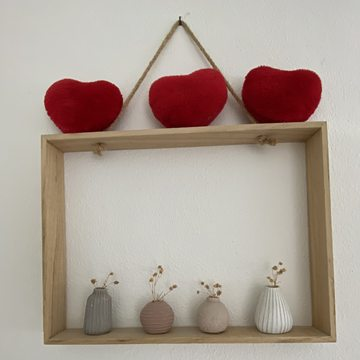
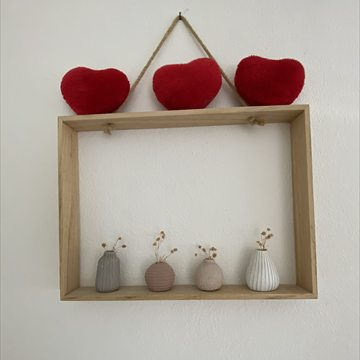
Photos: seated yoga in the middle and cropped tighter, full hearts frame
- Yoga trio order Balance · Ruhe · Kraft (EN Balance · Calm · Strength)
- Seated photo cropped to show less mat in front
- Accent photos are soft rounded squares instead of circles so the
  hearts frame isn't cut at the corners; hearts crop shows the whole frame
Asset version 20261004-3.

diff --git a/en/index.html b/en/index.html
@@ -6,8 +6,8 @@
 <title>LagOHM – Yoga &amp; Massage in Munich-Harlaching</title>
 <meta name="description" content="Yoga and massage in Munich-Harlaching. Yin Yoga, Yoga Therapy, Zen Shiatsu and Thai Yoga Massage with Helena – mindful, calm, all for you.">
 <link rel="icon" type="image/png" href="../images/logo.png">
-<link rel="stylesheet" href="../css/style.css?v=20261004-2">
-<link rel="stylesheet" href="../css/booking.css?v=20261004-2">
+<link rel="stylesheet" href="../css/style.css?v=20261004-3">
+<link rel="stylesheet" href="../css/booking.css?v=20261004-3">
 </head>
 <body>
 
@@ -157,8 +157,8 @@
 
         <div class="photo-trio">
           <figure><img src="../images/yoga-tree.jpg" alt="Helena in tree pose with hands above her head" loading="lazy"><figcaption>Balance</figcaption></figure>
-          <figure><img src="../images/yoga-triangle.jpg" alt="Helena in triangle pose" loading="lazy"><figcaption>Strength</figcaption></figure>
           <figure><img src="../images/yoga-seated.jpg" alt="Helena sitting cross-legged with hands at her heart" loading="lazy"><figcaption>Calm</figcaption></figure>
+          <figure><img src="../images/yoga-triangle.jpg" alt="Helena in triangle pose" loading="lazy"><figcaption>Strength</figcaption></figure>
         </div>
 
         <div class="technique-list">
@@ -436,7 +436,7 @@
   </div>
 </footer>
 
-<script src="../js/script.js?v=20261004-2"></script>
-<script src="../js/booking.js?v=20261004-2"></script>
+<script src="../js/script.js?v=20261004-3"></script>
+<script src="../js/booking.js?v=20261004-3"></script>
 </body>
 </html>

diff --git a/index.html b/index.html
@@ -6,8 +6,8 @@
 <title>LagOHM – Yoga &amp; Massage in München-Harlaching</title>
 <meta name="description" content="Yoga und Massage in München-Harlaching. Yin Yoga, Yoga-Therapie, Zen Shiatsu und Thai Yoga-Massage bei Helena – achtsam, ruhig, ganz für dich.">
 <link rel="icon" type="image/png" href="images/logo.png">
-<link rel="stylesheet" href="css/style.css?v=20261004-2">
-<link rel="stylesheet" href="css/booking.css?v=20261004-2">
+<link rel="stylesheet" href="css/style.css?v=20261004-3">
+<link rel="stylesheet" href="css/booking.css?v=20261004-3">
 </head>
 <body>
 
@@ -156,8 +156,8 @@
 
         <div class="photo-trio">
           <figure><img src="images/yoga-tree.jpg" alt="Helena im Baum mit Händen über dem Kopf" loading="lazy"><figcaption>Balance</figcaption></figure>
-          <figure><img src="images/yoga-triangle.jpg" alt="Helena im Dreieck" loading="lazy"><figcaption>Kraft</figcaption></figure>
           <figure><img src="images/yoga-seated.jpg" alt="Helena im Schneidersitz mit Händen vor der Brust" loading="lazy"><figcaption>Ruhe</figcaption></figure>
+          <figure><img src="images/yoga-triangle.jpg" alt="Helena im Dreieck" loading="lazy"><figcaption>Kraft</figcaption></figure>
         </div>
 
         <div class="technique-list">
@@ -435,7 +435,7 @@
   </div>
 </footer>
 
-<script src="js/script.js?v=20261004-2"></script>
-<script src="js/booking.js?v=20261004-2"></script>
+<script src="js/script.js?v=20261004-3"></script>
+<script src="js/booking.js?v=20261004-3"></script>
 </body>
 </html>

diff --git a/css/style.css b/css/style.css
@@ -233,9 +233,9 @@ a{ color: inherit; text-decoration: none; }
 .photo-trio img{ width:100%; aspect-ratio: 3/4; object-fit: cover; border-radius: 16px; display:block; }
 .photo-trio figcaption{ margin-top: 8px; text-align:center; font-family: var(--serif); font-style: italic; font-size: .95rem; color: var(--ink-soft); }
 
-/* Small round accent photos (Buddha, hearts) */
+/* Small accent photos (Buddha, hearts), soft rounded squares so nothing gets cut */
 .principles-head{ display:flex; align-items:center; justify-content:space-between; gap: 24px; }
-.accent-round{ width:110px; height:110px; border-radius:50%; object-fit:cover; flex:none; box-shadow: 0 12px 30px -14px rgba(43,27,22,.35); }
+.accent-round{ width:110px; height:110px; border-radius:20px; object-fit:cover; flex:none; box-shadow: 0 12px 30px -14px rgba(43,27,22,.35); }
 .accent-center{ display:block; margin: 0 auto 18px; }
 @media (max-width: 600px){ .accent-round{ width:84px; height:84px; } .photo-trio{ gap: 8px; } }
 

diff --git a/datenschutz.html b/datenschutz.html
@@ -5,7 +5,7 @@
 <meta name="viewport" content="width=device-width, initial-scale=1.0">
 <title>Datenschutz – LagOHM</title>
 <link rel="icon" type="image/png" href="images/logo.png">
-<link rel="stylesheet" href="css/style.css?v=20261004-2">
+<link rel="stylesheet" href="css/style.css?v=20261004-3">
 </head>
 <body>
 

diff --git a/impressum.html b/impressum.html
@@ -5,7 +5,7 @@
 <meta name="viewport" content="width=device-width, initial-scale=1.0">
 <title>Impressum – LagOHM</title>
 <link rel="icon" type="image/png" href="images/logo.png">
-<link rel="stylesheet" href="css/style.css?v=20261004-2">
+<link rel="stylesheet" href="css/style.css?v=20261004-3">
 </head>
 <body>
 

diff --git a/admin/vouchers.php b/admin/vouchers.php
@@ -105,8 +105,8 @@ header('Content-Type: text/html; charset=utf-8');
 <meta charset="UTF-8">
 <meta name="viewport" content="width=device-width, initial-scale=1.0">
 <title>Gutscheine – Admin – LagOHM</title>
-<link rel="stylesheet" href="../css/style.css?v=20261004-2">
-<link rel="stylesheet" href="admin.css?v=20261004-2">
+<link rel="stylesheet" href="../css/style.css?v=20261004-3">
+<link rel="stylesheet" href="admin.css?v=20261004-3">
 <style>
   .voucher-toolbar{ display:flex; gap:12px; flex-wrap:wrap; align-items:center; margin: 8px 0 8px; }
   .voucher-toolbar input[type="search"]{ padding:10px 12px; border:1px solid var(--line); border-radius:10px; font-size:1rem; min-width: 220px; }

diff --git a/admin/voucher.php b/admin/voucher.php
@@ -119,8 +119,8 @@ header('Content-Type: text/html; charset=utf-8');
 <meta charset="UTF-8">
 <meta name="viewport" content="width=device-width, initial-scale=1.0">
 <title>Gutschein <?= e($code) ?> – Admin – LagOHM</title>
-<link rel="stylesheet" href="../css/style.css?v=20261004-2">
-<link rel="stylesheet" href="admin.css?v=20261004-2">
+<link rel="stylesheet" href="../css/style.css?v=20261004-3">
+<link rel="stylesheet" href="admin.css?v=20261004-3">
 <style>
   .voucher-form{ display:grid; grid-template-columns: repeat(auto-fit, minmax(200px, 1fr)); gap:16px 20px; max-width: 760px; }
   .voucher-form .wide{ grid-column: 1 / -1; }

diff --git a/admin/availability.php b/admin/availability.php
@@ -56,8 +56,8 @@ header('Content-Type: text/html; charset=utf-8');
 <meta charset="UTF-8">
 <meta name="viewport" content="width=device-width, initial-scale=1.0">
 <title>Verfügbarkeit – Admin – LagOHM</title>
-<link rel="stylesheet" href="../css/style.css?v=20261004-2">
-<link rel="stylesheet" href="admin.css?v=20261004-2">
+<link rel="stylesheet" href="../css/style.css?v=20261004-3">
+<link rel="stylesheet" href="admin.css?v=20261004-3">
 </head>
 <body>
 <header class="admin-header">

diff --git a/admin/settings.php b/admin/settings.php
@@ -63,8 +63,8 @@ header('Content-Type: text/html; charset=utf-8');
 <meta charset="UTF-8">
 <meta name="viewport" content="width=device-width, initial-scale=1.0">
 <title>Einstellungen – Admin – LagOHM</title>
-<link rel="stylesheet" href="../css/style.css?v=20261004-2">
-<link rel="stylesheet" href="admin.css?v=20261004-2">
+<link rel="stylesheet" href="../css/style.css?v=20261004-3">
+<link rel="stylesheet" href="admin.css?v=20261004-3">
 </head>
 <body>
 <header class="admin-header">

diff --git a/admin/index.php b/admin/index.php
@@ -47,8 +47,8 @@ header('Content-Type: text/html; charset=utf-8');
 <meta charset="UTF-8">
 <meta name="viewport" content="width=device-width, initial-scale=1.0">
 <title>Buchungen – Admin – LagOHM</title>
-<link rel="stylesheet" href="../css/style.css?v=20261004-2">
-<link rel="stylesheet" href="admin.css?v=20261004-2">
+<link rel="stylesheet" href="../css/style.css?v=20261004-3">
+<link rel="stylesheet" href="admin.css?v=20261004-3">
 </head>
 <body>
 <header class="admin-header">

diff --git a/admin/calendar.php b/admin/calendar.php
@@ -78,8 +78,8 @@ header('Content-Type: text/html; charset=utf-8');
 <meta charset="UTF-8">
 <meta name="viewport" content="width=device-width, initial-scale=1.0">
 <title>Kalender – Admin – LagOHM</title>
-<link rel="stylesheet" href="../css/style.css?v=20261004-2">
-<link rel="stylesheet" href="admin.css?v=20261004-2">
+<link rel="stylesheet" href="../css/style.css?v=20261004-3">
+<link rel="stylesheet" href="admin.css?v=20261004-3">
 </head>
 <body>
 <header class="admin-header">

diff --git a/admin/setup.php b/admin/setup.php
@@ -45,8 +45,8 @@ header('Content-Type: text/html; charset=utf-8');
 <meta charset="UTF-8">
 <meta name="viewport" content="width=device-width, initial-scale=1.0">
 <title>Admin-Einrichtung – LagOHM</title>
-<link rel="stylesheet" href="../css/style.css?v=20261004-2">
-<link rel="stylesheet" href="admin.css?v=20261004-2">
+<link rel="stylesheet" href="../css/style.css?v=20261004-3">
+<link rel="stylesheet" href="admin.css?v=20261004-3">
 </head>
 <body>
 <main class="admin-auth">
